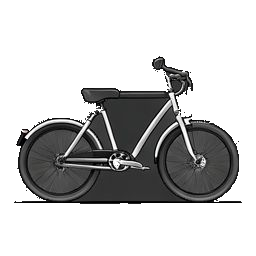
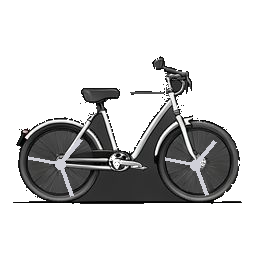
feat(assets): validated bike flipbook with scripted spoke rotation
Bertrand's art gate: PASS. All three bike frames derive from the single
FLUX base (identical bike, zero flicker); retouch-bike-spokes.mjs
detects the two wheel discs and stamps a bold tri-spoke Y rotated
0/40/80 degrees per frame — one full spoke period across the flip.
The CI workflow runs the retouch right after generation, so any future
regeneration keeps the rotation.

Claude-Session: https://claude.ai/code/session_01QeAWVzViSkMBgP9nVbGHat

diff --git a/scripts/SCRIPTS.md b/scripts/SCRIPTS.md
@@ -797,3 +797,18 @@ delivery at all, never on a bad-looking halo. Outputs are gitignored
   an **unpinned** `npm i --no-save playwright` locally so it resolves a compatible
   browser; the CI composite actions pin deliberately and install the matching
   browser via `npx playwright install`.
+
+## retouch-bike-spokes.mjs — Courier bike spoke rotation (scripted retouch)
+
+FLUX draws a consistent whole bicycle per frame (pinned seed) but refuses
+legible tri-spoke mag wheels and re-rolls small accessories between frames. This
+game-graphist pass derives **every** bike frame from the single FLUX base
+(`bike.png`): the two wheel discs are detected (dark-pixel centroids in two
+x-windows that exclude the frame-bag band) and three bold pale spokes are drawn
+per wheel, rotated 0°/40°/80° per frame — one full 120° spoke period across the
+3-frame flip, identical bike everywhere, zero flicker. Deterministic and
+idempotent; runs in CI right after generation + cutout.
+
+```bash
+node scripts/retouch-bike-spokes.mjs   # requires @napi-rs/canvas
+```

diff --git a/docs/agent-handoffs.md b/docs/agent-handoffs.md
@@ -1353,3 +1353,6 @@ enemies` PASS (1 pre-existing non-blocking WARN on the civilian prompt).
   (rider 107w). Asset-gate watch items: rider phantom-bike risk from "feet on pedals";
   bike "three" manifest coupling; enemy regen — watch "pale neon tones" color flood +
   \_f2 pair identity. (lead-art)
+- art ASSET GATE (bike): PASS par Bertrand — take 4 per-frame + retouche scriptée
+  des bâtons (retouch-bike-spokes.mjs, 0/40/80°, base unique = zéro flicker).
+  Rider: prochaine itération.
